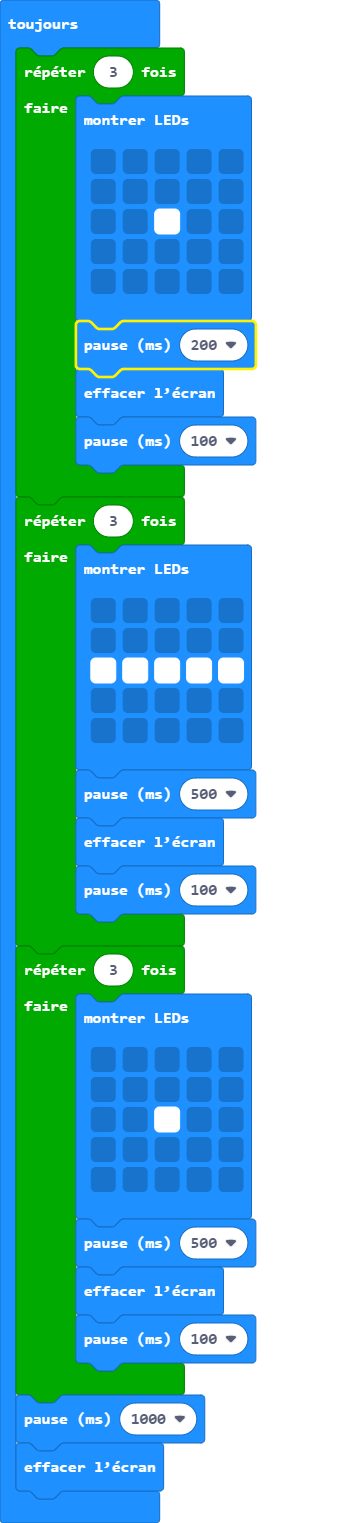
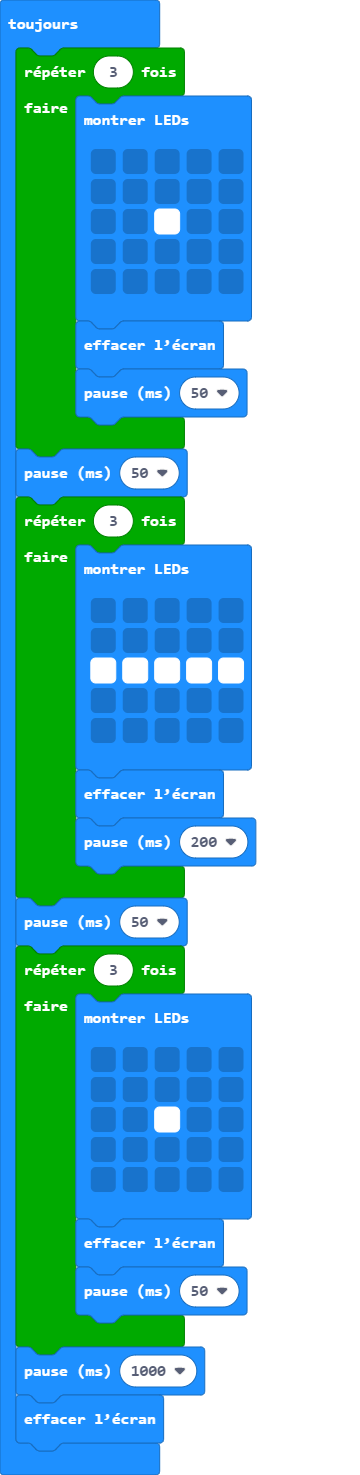
Mise à jour main.blocks, main.ts

Changed region(s): [[0.0306, 0.0, 0.7333, 0.9668]]

diff --git a/main.ts b/main.ts
@@ -7,10 +7,10 @@ basic.forever(function () {
             . . . . .
             . . . . .
             `)
-        basic.pause(200)
         basic.clearScreen()
-        basic.pause(100)
+        basic.pause(50)
     }
+    basic.pause(50)
     for (let index = 0; index < 3; index++) {
         basic.showLeds(`
             . . . . .
@@ -19,10 +19,10 @@ basic.forever(function () {
             . . . . .
             . . . . .
             `)
-        basic.pause(500)
         basic.clearScreen()
-        basic.pause(100)
+        basic.pause(200)
     }
+    basic.pause(50)
     for (let index = 0; index < 3; index++) {
         basic.showLeds(`
             . . . . .
@@ -31,9 +31,8 @@ basic.forever(function () {
             . . . . .
             . . . . .
             `)
-        basic.pause(500)
         basic.clearScreen()
-        basic.pause(100)
+        basic.pause(50)
     }
     basic.pause(1000)
     basic.clearScreen()
